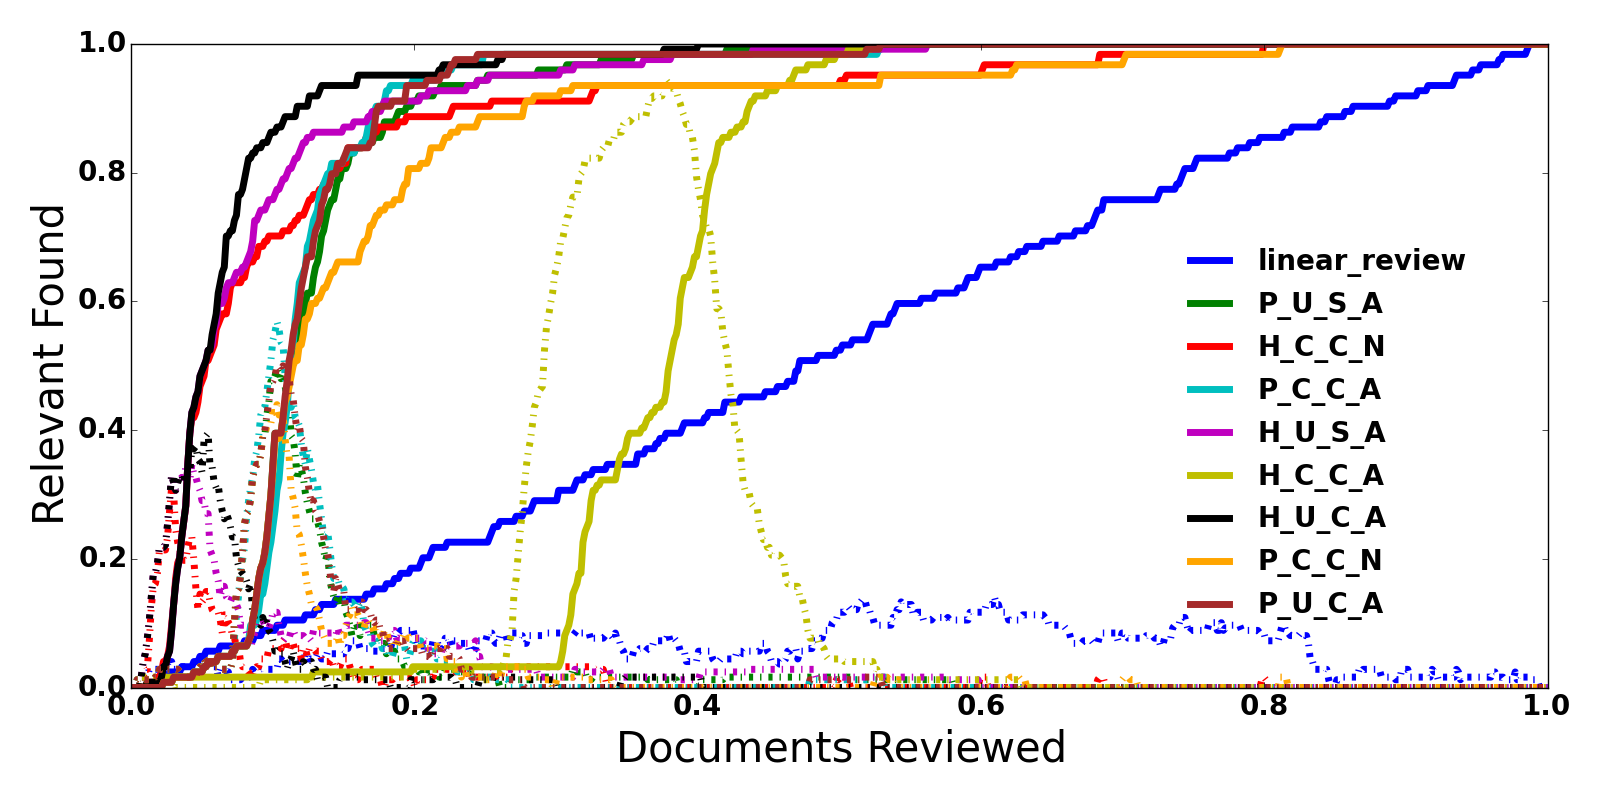
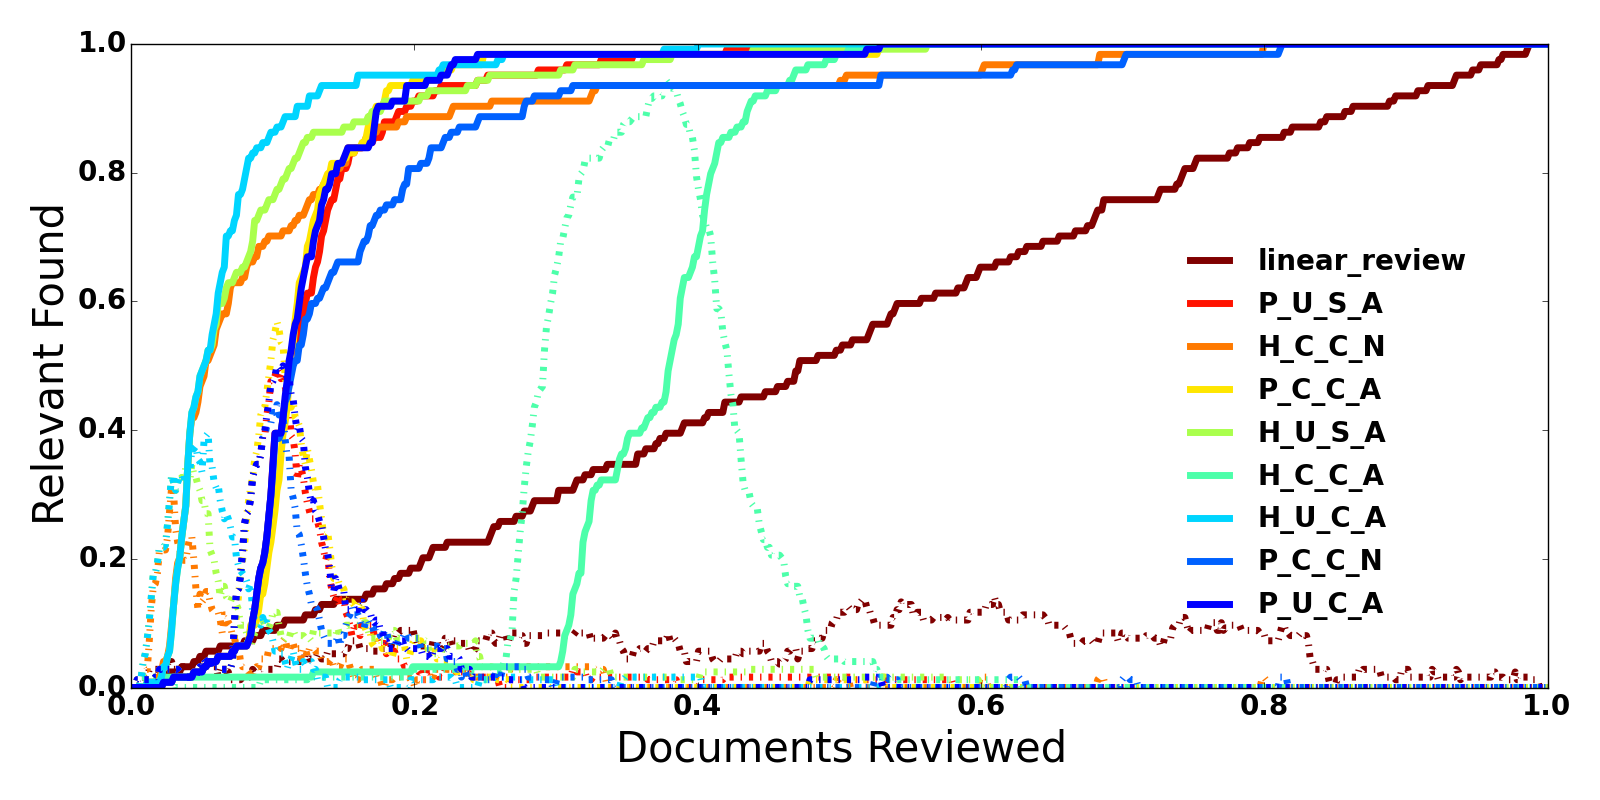
figs

diff --git a/Learning_assisted_review/src/runner.py b/Learning_assisted_review/src/runner.py
@@ -11,6 +11,8 @@ from demos import cmd
 from crawler import crawl_acm_doi
 import pickle
 import matplotlib.pyplot as plt
+import matplotlib.colors as colors
+import matplotlib.cm as cmx
 
 
 ESHandler = ESHandler(force_injest=False)
@@ -21,6 +23,16 @@ container = Vessel(
 )
 
 stepsize = 50
+
+
+
+
+
+def colorcode(N):
+    jet = plt.get_cmap('jet')
+    cNorm  = colors.Normalize(vmin=0, vmax=N-1, clip=True)
+    scalarMap = cmx.ScalarMappable(norm=cNorm, cmap=jet)
+    return scalarMap
 
 def saveData(set):
     stepsize = 10
@@ -208,6 +220,9 @@ def comp_draw(id):
     plt.savefig("../figure/comp_exp" + str(id) + ".png")
 
 def comp_repeat_draw(id):
+
+    N= 10
+
     font = {'family': 'normal',
             'weight': 'bold',
             'size': 20}
@@ -217,6 +232,8 @@ def comp_repeat_draw(id):
     paras = {'lines.linewidth': 5, 'legend.fontsize': 20, 'axes.labelsize': 30, 'legend.frameon': False,
              'figure.autolayout': True, 'figure.figsize': (16, 8)}
     plt.rcParams.update(paras)
+
+    scalarMap = colorcode(N)
 
     with open("../dump/repeat_exp5.pickle", "r") as f:
         result0=pickle.load(f)
@@ -232,23 +249,25 @@ def comp_repeat_draw(id):
     iqrs1 = rescale(iqrs1)
     #################
 
-    line, = plt.plot(medians0['x'], medians0["linear_review"], label="linear_review")
+    indices = range(N)
+
+    line, = plt.plot(medians0['x'], medians0["linear_review"], label="linear_review", color = scalarMap.to_rgba(indices.pop()))
     plt.plot(iqrs0['x'], iqrs0["linear_review"], "-.", color=line.get_color())
-    line, = plt.plot(medians1['x'], medians1["aggressive_undersampling"], label="P_U_S_A")
+    line, = plt.plot(medians1['x'], medians1["aggressive_undersampling"], label="P_U_S_A", color = scalarMap.to_rgba(indices.pop()))
     plt.plot(iqrs1['x'], iqrs1["aggressive_undersampling"], "-.", color=line.get_color())
-    line, = plt.plot(medians0['x'], medians0["continuous_active"], label="H_C_C_N")
+    line, = plt.plot(medians0['x'], medians0["continuous_active"], label="H_C_C_N", color = scalarMap.to_rgba(indices.pop()))
     plt.plot(iqrs0['x'], iqrs0["continuous_active"], "-.", color=line.get_color())
-    line, = plt.plot(medians1['x'], medians1["continuous_aggressive"], label="P_C_C_A")
+    line, = plt.plot(medians1['x'], medians1["continuous_aggressive"], label="P_C_C_A", color = scalarMap.to_rgba(indices.pop()))
     plt.plot(iqrs1['x'], iqrs1["continuous_aggressive"], "-.", color=line.get_color())
-    line, = plt.plot(medians0['x'], medians0["aggressive_undersampling"], label="H_U_S_A")
+    line, = plt.plot(medians0['x'], medians0["aggressive_undersampling"], label="H_U_S_A", color = scalarMap.to_rgba(indices.pop()))
     plt.plot(iqrs0['x'], iqrs0["aggressive_undersampling"], "-.", color=line.get_color())
-    line, = plt.plot(medians0['x'], medians0["continuous_aggressive"], label="H_C_C_A")
+    line, = plt.plot(medians0['x'], medians0["continuous_aggressive"], label="H_C_C_A", color = scalarMap.to_rgba(indices.pop()))
     plt.plot(iqrs0['x'], iqrs0["continuous_aggressive"], "-.", color=line.get_color())
-    line, = plt.plot(medians0['x'], medians0["semi_continuous_aggressive"], label="H_U_C_A")
+    line, = plt.plot(medians0['x'], medians0["semi_continuous_aggressive"], label="H_U_C_A", color = scalarMap.to_rgba(indices.pop()))
     plt.plot(iqrs0['x'], iqrs0["semi_continuous_aggressive"], "-.", color=line.get_color())
-    line, = plt.plot(medians1['x'], medians1["continuous_active"], label="P_C_C_N", color = "orange")
+    line, = plt.plot(medians1['x'], medians1["continuous_active"], label="P_C_C_N", color = scalarMap.to_rgba(indices.pop()))
     plt.plot(iqrs0['x'], iqrs1["continuous_active"], "-.", color=line.get_color())
-    line, = plt.plot(medians0['x'], medians1["semi_continuous_aggressive"], label="P_U_C_A", color='brown')
+    line, = plt.plot(medians0['x'], medians1["semi_continuous_aggressive"], label="P_U_C_A", color = scalarMap.to_rgba(indices.pop()))
     plt.plot(iqrs0['x'], iqrs1["semi_continuous_aggressive"], "-.", color=line.get_color())
     plt.ylabel("Relevant Found")
     plt.xlabel("Documents Reviewed")
